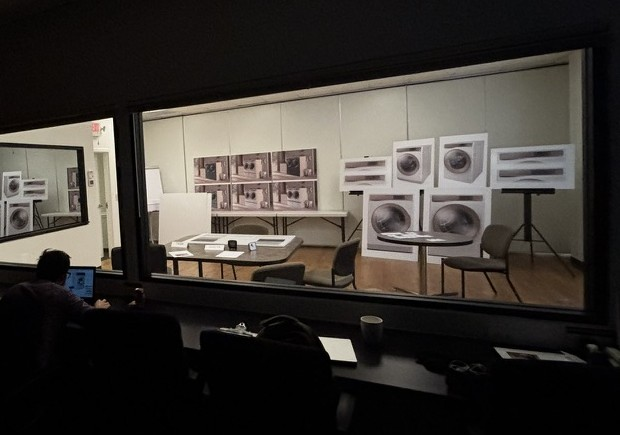
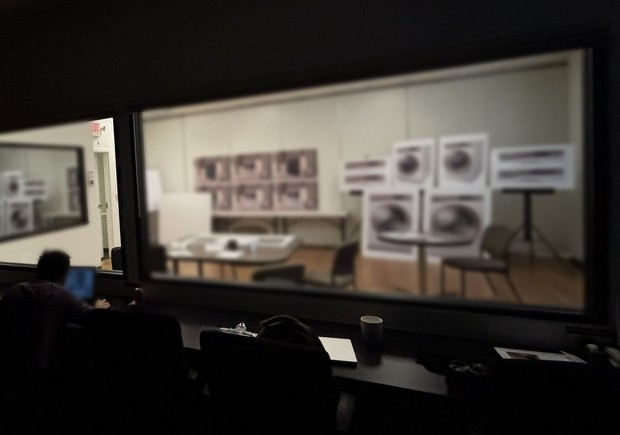
Laundry 03: lightly blur design boards in photo
Claude-Session: https://claude.ai/code/session_01LRwu9cBfp7AtzkdkiroN5a

Changed region(s): [[0.2145, 0.1195, 0.9194, 0.7172], [0.0, 0.269, 0.1532, 0.6575], [0.7661, 0.508, 0.7968, 0.5379]]

diff --git a/projects/laundry-systems.html b/projects/laundry-systems.html
@@ -431,7 +431,7 @@ header.top .lede{margin:0;max-width:none}
       <p class="dnum">03 · Premium design</p>
       <h3>“It should feel premium, without being harder to use.”</h3>
       <div class="dpair">
-        <figure class="dcell"><div class="dbox dphoto"><img src="../images/laundry-perception.jpg?v=1" alt="Observation room looking through a window into a research room with washer and dryer design boards on easels" loading="lazy"></div><figcaption>Snippet from in-person perception research, led and moderated by Shreya</figcaption></figure>
+        <figure class="dcell"><div class="dbox dphoto"><img src="../images/laundry-perception.jpg?v=3" alt="Observation room looking through a window into a research room with washer and dryer design boards on easels" loading="lazy"></div><figcaption>Snippet from in-person perception research, led and moderated by Shreya</figcaption></figure>
         <figure class="dcell"><div class="dbox"><svg class="dpanels dprem" viewBox="0 0 640 196" role="img" aria-label="Design cues that read as premium versus less premium. Premium: color beyond white, no printed text, a large tinted door, a hidden detergent drawer. Less premium: white body, printed text, a physical knob, an angled panel with a big drawer. A knob reads as less premium but felt easier to use."><g transform="translate(0 16) scale(.74)"><g transform="translate(0 0)"><rect x="0" y="0" width="150" height="176" rx="10" fill="#3b4048"/><rect x="10" y="10" width="130" height="22" rx="4" fill="#2a2e34"/><rect x="95" y="16" width="34" height="10" rx="2" fill="#0d0f12"/><rect x="99" y="19" width="14" height="4" rx="1" fill="#8fd0ff" opacity=".8"/><circle cx="75" cy="106" r="54" fill="#1b1e22" stroke="#545a63" stroke-width="2"/><circle cx="75" cy="106" r="40" fill="#121417" opacity=".9"/><rect x="12" y="162" width="18" height="6" rx="2" fill="#4a5059"/><rect x="120" y="162" width="18" height="6" rx="2" fill="#4a5059"/></g></g><text x="128" y="34" font-family="-apple-system,BlinkMacSystemFont,Inter,system-ui,sans-serif" font-size="14" font-weight="600" class="lt" text-anchor="start">Reads as premium</text><circle cx="132" cy="58" r="2.5" class="dg"/><text x="142" y="62" font-family="-apple-system,BlinkMacSystemFont,Inter,system-ui,sans-serif" font-size="12" font-weight="400" class="ls" text-anchor="start">Color beyond white</text><circle cx="132" cy="78" r="2.5" class="dg"/><text x="142" y="82" font-family="-apple-system,BlinkMacSystemFont,Inter,system-ui,sans-serif" font-size="12" font-weight="400" class="ls" text-anchor="start">No printed text</text><circle cx="132" cy="98" r="2.5" class="dg"/><text x="142" y="102" font-family="-apple-system,BlinkMacSystemFont,Inter,system-ui,sans-serif" font-size="12" font-weight="400" class="ls" text-anchor="start">Large tinted door</text><circle cx="132" cy="118" r="2.5" class="dg"/><text x="142" y="122" font-family="-apple-system,BlinkMacSystemFont,Inter,system-ui,sans-serif" font-size="12" font-weight="400" class="ls" text-anchor="start">Hidden detergent drawer</text><g transform="translate(330 16) scale(.74)"><g transform="translate(0 0)"><rect x="0" y="0" width="150" height="176" rx="10" fill="#f4f5f6" stroke="#c9cdd2" stroke-width="1.5"/><path d="M10 34 L10 14 Q10 10 14 10 L136 10 Q140 10 140 14 L140 26 Z" fill="#e3e6e9" stroke="#c9cdd2"/><rect x="14" y="14" width="30" height="12" rx="2" fill="#fff" stroke="#c9cdd2"/><rect x="18" y="18" width="14" height="3" rx="1" fill="#b7bcc2"/><rect x="54" y="14" width="6" height="2" fill="#9aa0a7"/><rect x="63" y="19" width="6" height="2" fill="#9aa0a7"/><rect x="72" y="14" width="6" height="2" fill="#9aa0a7"/><rect x="81" y="19" width="6" height="2" fill="#9aa0a7"/><rect x="90" y="14" width="6" height="2" fill="#9aa0a7"/><circle cx="118" cy="20" r="8" fill="#d7dbdf" stroke="#9aa0a7" stroke-width="1.5"/><path d="M118 13 V18" stroke="#6e747c" stroke-width="1.6" stroke-linecap="round"/><circle cx="75" cy="104" r="44" fill="#eef1f3" stroke="#b9bec4" stroke-width="2"/><circle cx="75" cy="104" r="32" fill="#dfe6ea" opacity=".9"/></g></g><text x="458" y="34" font-family="-apple-system,BlinkMacSystemFont,Inter,system-ui,sans-serif" font-size="14" font-weight="600" class="lt" text-anchor="start">Reads as less premium</text><circle cx="462" cy="58" r="2.5" class="dm"/><text x="472" y="62" font-family="-apple-system,BlinkMacSystemFont,Inter,system-ui,sans-serif" font-size="12" font-weight="400" class="ls" text-anchor="start">White body</text><circle cx="462" cy="78" r="2.5" class="dm"/><text x="472" y="82" font-family="-apple-system,BlinkMacSystemFont,Inter,system-ui,sans-serif" font-size="12" font-weight="400" class="ls" text-anchor="start">Printed text</text><circle cx="462" cy="98" r="2.5" class="dm"/><text x="472" y="102" font-family="-apple-system,BlinkMacSystemFont,Inter,system-ui,sans-serif" font-size="12" font-weight="400" class="ls" text-anchor="start">Physical knob</text><circle cx="462" cy="118" r="2.5" class="dm"/><text x="472" y="122" font-family="-apple-system,BlinkMacSystemFont,Inter,system-ui,sans-serif" font-size="12" font-weight="400" class="ls" text-anchor="start">Angled panel, big drawer</text><circle class="ta" cx="417.3" cy="30.8" r="10" fill="none" stroke-width="1.5"/><path class="tl" d="M424 38 C 436 70, 432 150, 456 170" fill="none" stroke-width="1.3" stroke-dasharray="3 3"/><text x="462" y="175" font-family="-apple-system,BlinkMacSystemFont,Inter,system-ui,sans-serif" font-size="12" font-weight="600" class="tc" text-anchor="start">But a knob felt easier to use</text></svg></div><figcaption>Based on competitor benchmarks in the EU and NA</figcaption></figure>
       </div>
       <dl class="dsteps">
